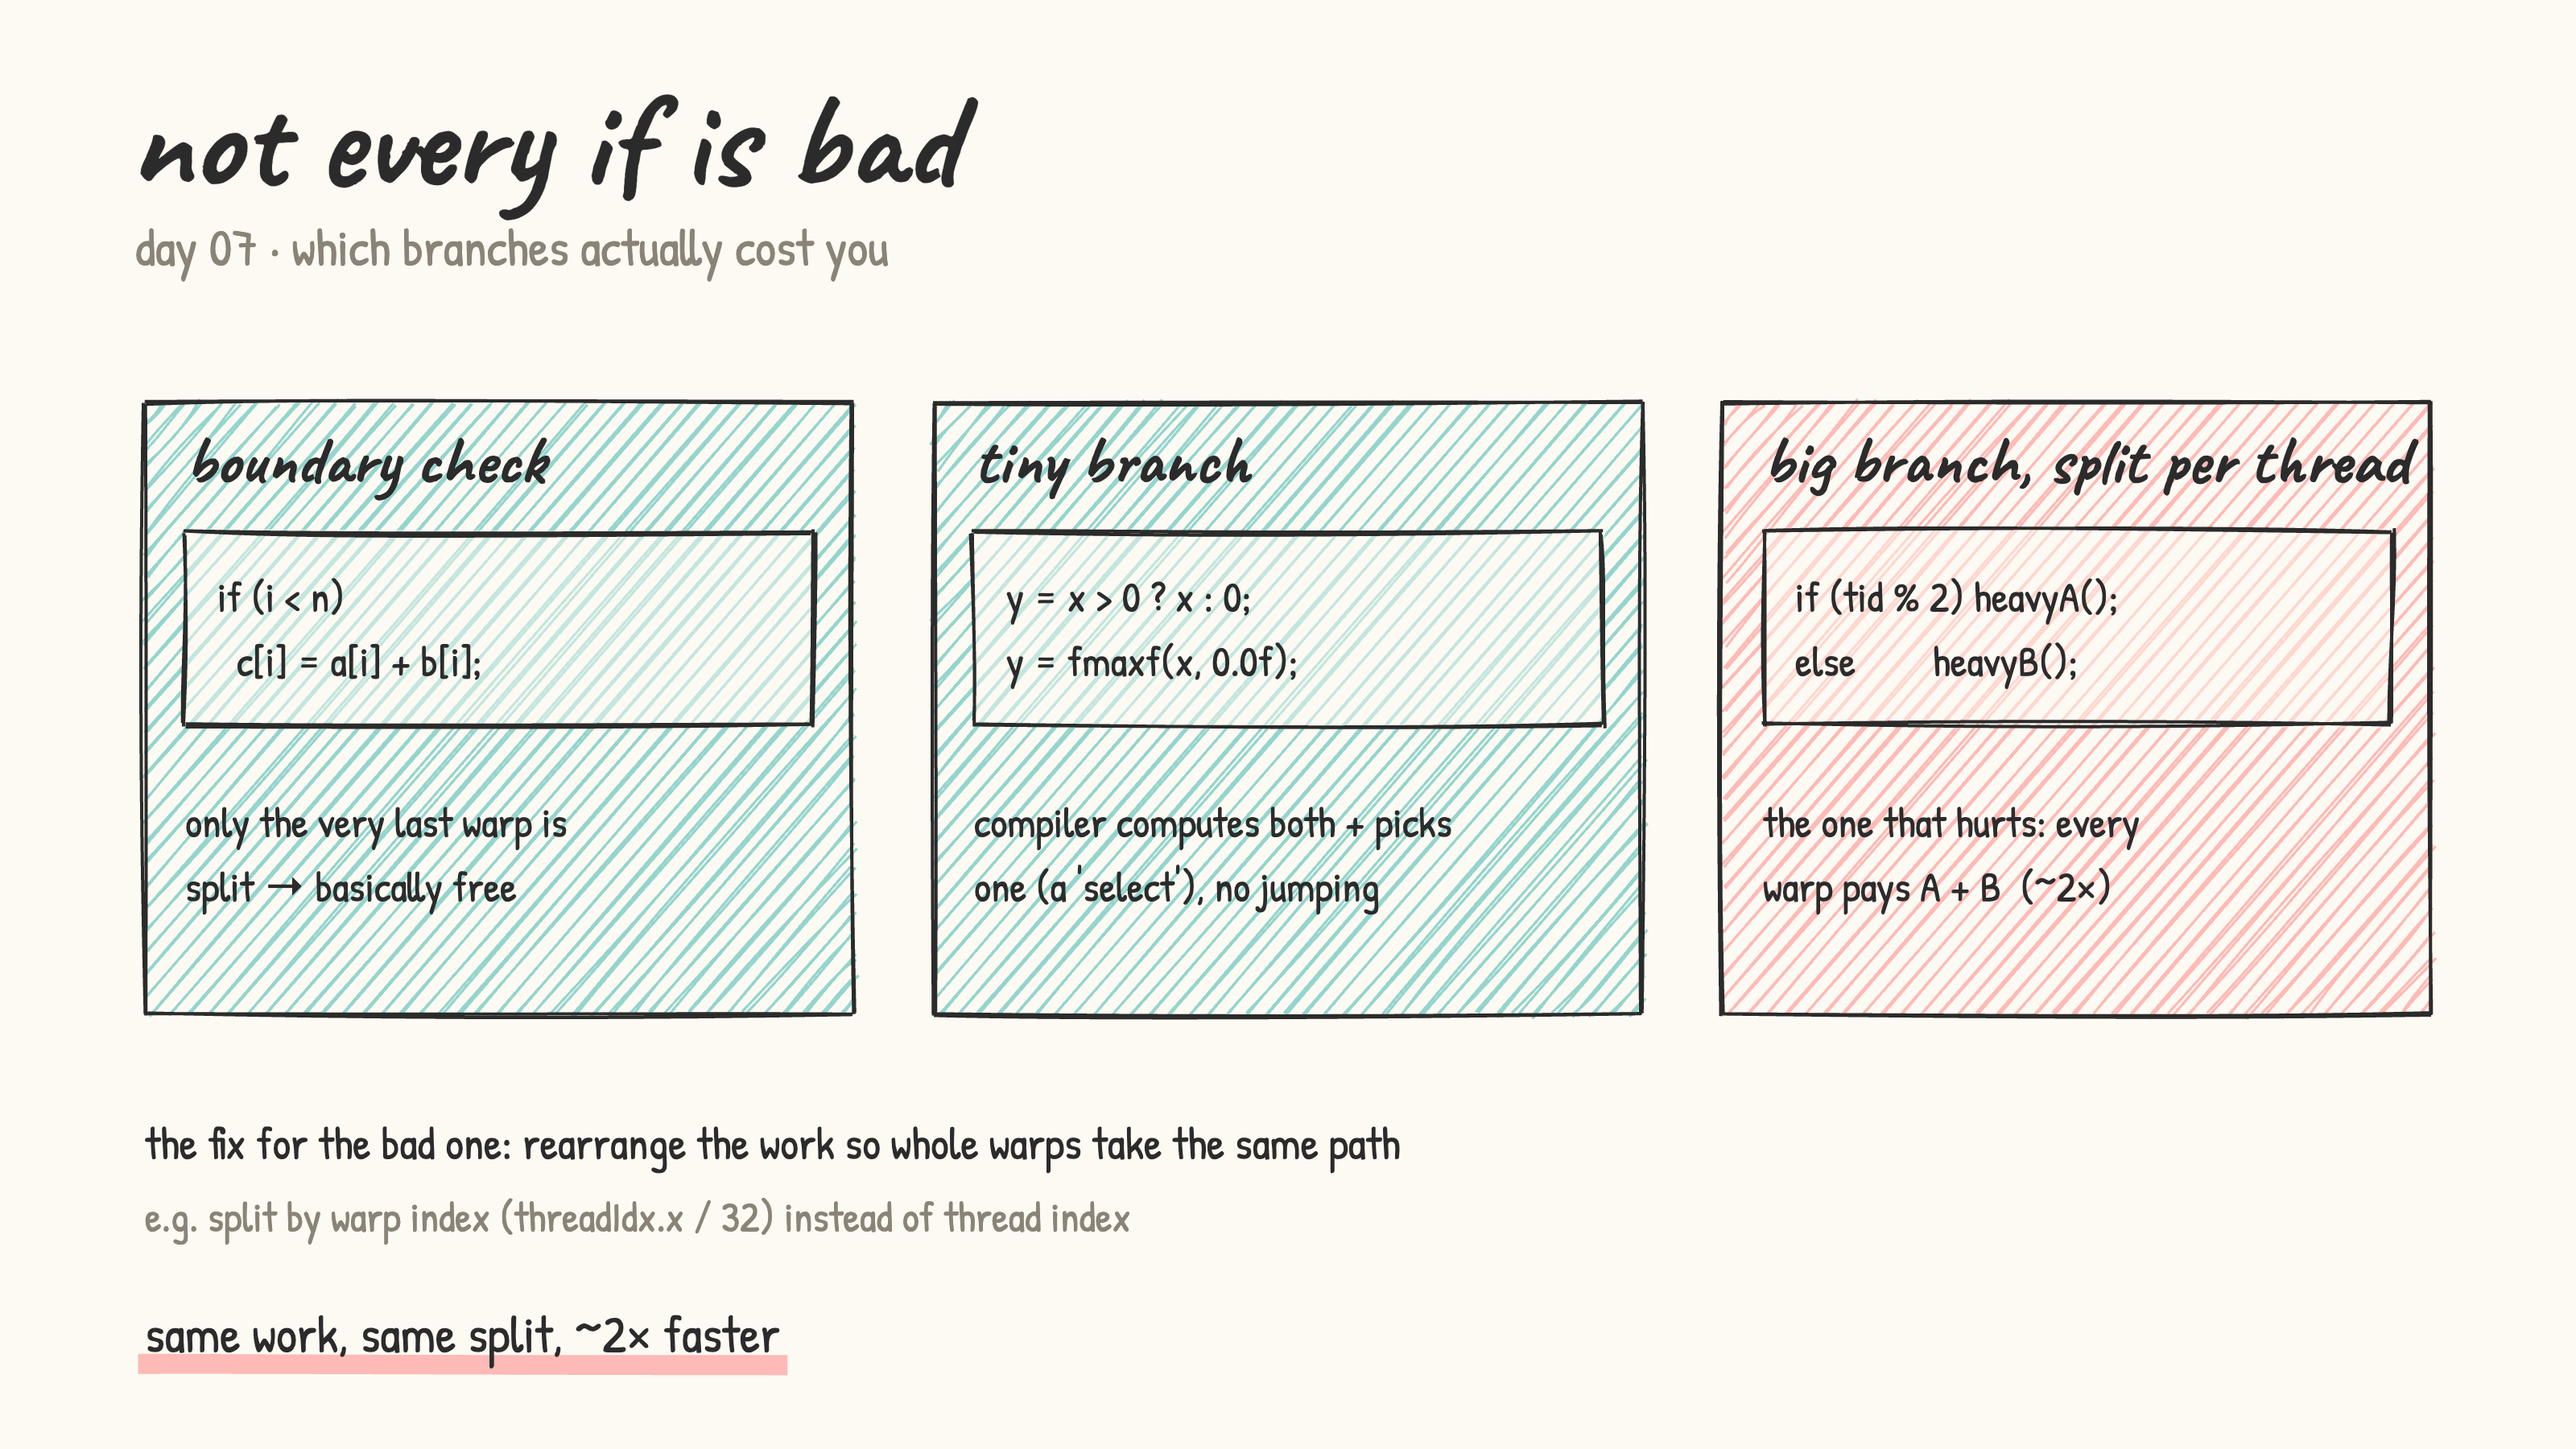
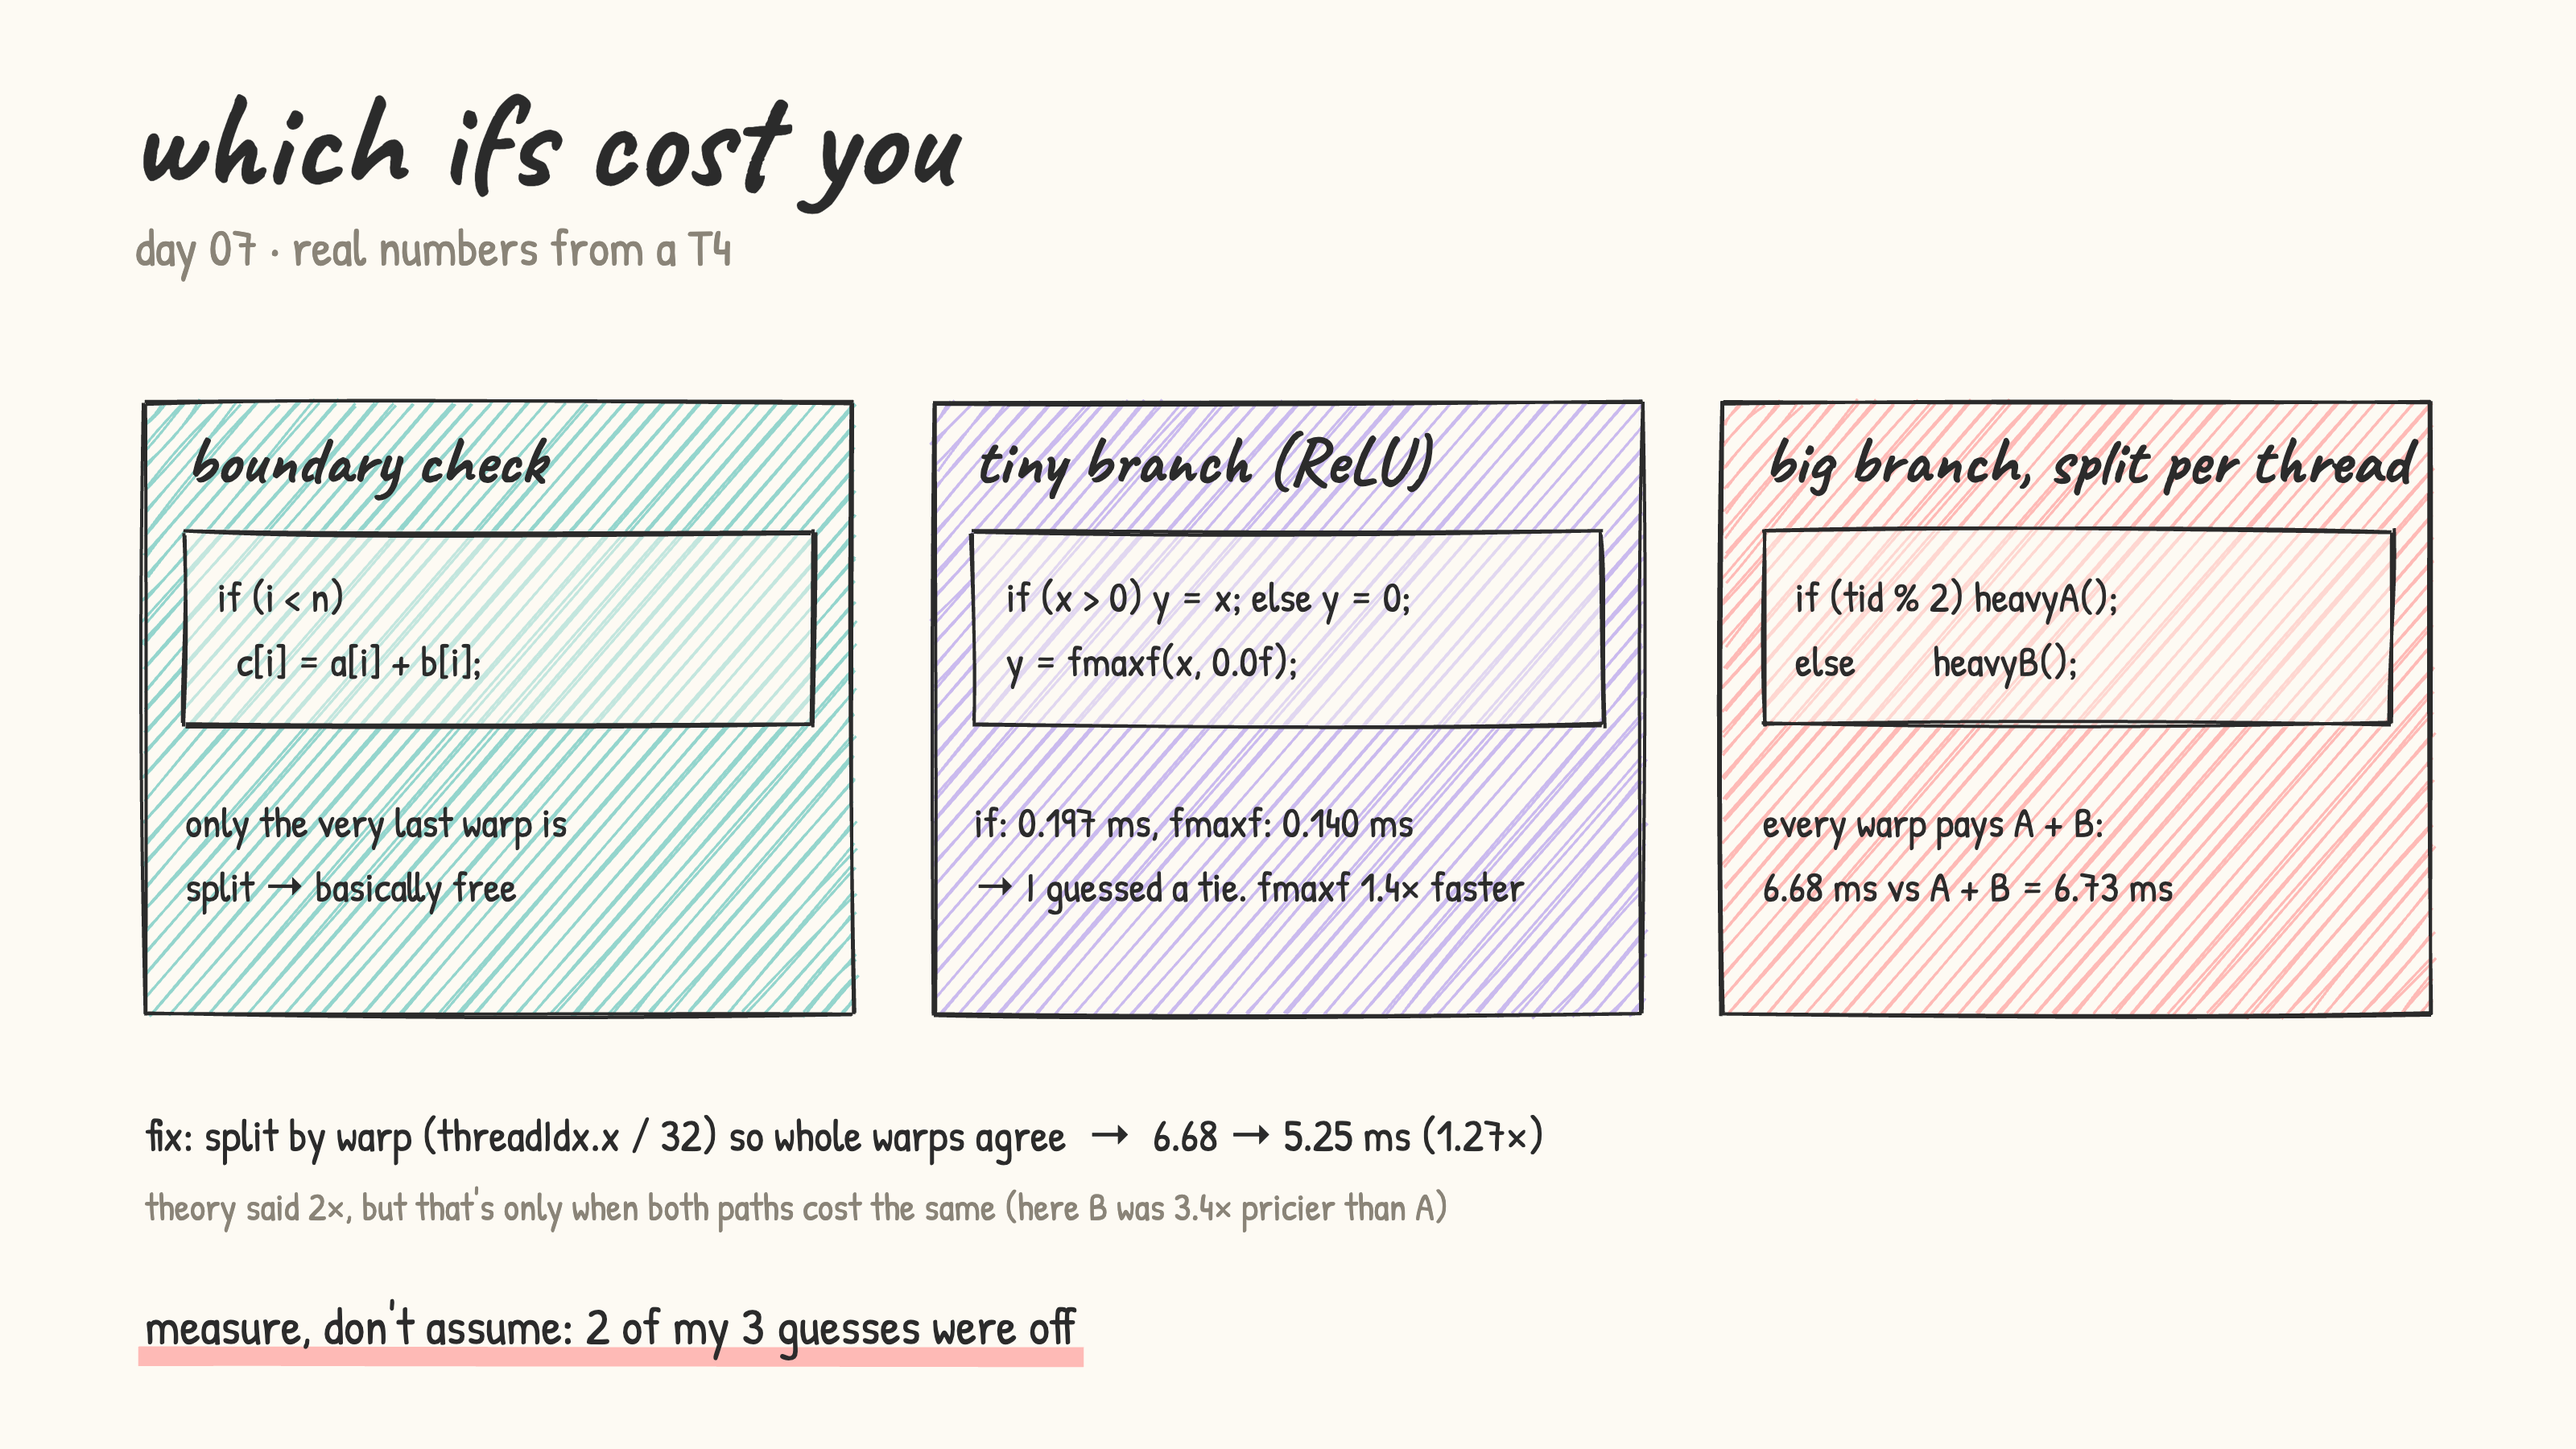
day 07: warp divergence, measured on T4

diff --git a/images/src/day07_not_every_if.html b/images/src/day07_not_every_if.html
@@ -11,15 +11,15 @@
 <script src="sketch.js"></script>
 <script>
 fontsReady.then(() => {
-  title("not every if is bad", "day 07 · which branches actually cost you");
+  title("which ifs cost you", "day 07 · real numbers from a T4");
 
   const cards = [
     { x: 90, fill: COLORS.teal, head: "boundary check", code: ["if (i < n)", "  c[i] = a[i] + b[i];"],
       note: ["only the very last warp is", "split → basically free"] },
-    { x: 580, fill: COLORS.teal, head: "tiny branch", code: ["y = x > 0 ? x : 0;", "y = fmaxf(x, 0.0f);"],
-      note: ["compiler computes both + picks", "one (a 'select'), no jumping"] },
+    { x: 580, fill: COLORS.purple, head: "tiny branch (ReLU)", code: ["if (x > 0) y = x; else y = 0;", "y = fmaxf(x, 0.0f);"],
+      note: ["if: 0.197 ms, fmaxf: 0.140 ms", "→ I guessed a tie. fmaxf 1.4× faster"] },
     { x: 1070, fill: COLORS.coral, head: "big branch, split per thread", code: ["if (tid % 2) heavyA();", "else        heavyB();"],
-      note: ["the one that hurts: every", "warp pays A + B  (~2×)"] },
+      note: ["every warp pays A + B:", "6.68 ms vs A + B = 6.73 ms"] },
   ];
   for (const c of cards) {
     box(c.x, 250, 440, 380, { fill: c.fill });
@@ -31,9 +31,9 @@ fontsReady.then(() => {
     text(c.x + 25, 560, c.note[1], { size: 26 });
   }
 
-  text(90, 720, "the fix for the bad one: rearrange the work so whole warps take the same path", { size: 28 });
-  text(90, 765, "e.g. split by warp index (threadIdx.x / 32) instead of thread index", { size: 26, color: COLORS.muted });
-  underline(text(90, 840, "same work, same split, ~2× faster", { size: 32 }), COLORS.coral);
+  text(90, 715, "fix: split by warp (threadIdx.x / 32) so whole warps agree  →  6.68 → 5.25 ms (1.27×)", { size: 28 });
+  text(90, 758, "theory said 2×, but that's only when both paths cost the same (here B was 3.4× pricier than A)", { size: 24, color: COLORS.muted });
+  underline(text(90, 835, "measure, don't assume: 2 of my 3 guesses were off", { size: 32 }), COLORS.coral);
 });
 </script>
 </body>

diff --git a/images/src/day07_divergence.html b/images/src/day07_divergence.html
@@ -31,6 +31,7 @@ fontsReady.then(() => {
   text(nx, 315, "one warp has to run BOTH paths,", { size: 28 });
   text(nx, 353, "one after the other. half the lanes", { size: 28 });
   text(nx, 391, "sit idle (–) each time  →  time = A + B", { size: 28 });
+  text(nx, 432, "measured on a T4: 6.68 ms vs A + B = 6.73 ms ✓", { size: 24, color: COLORS.muted });
 
   // ---- split per warp ----
   text(120, 500, "if ((threadIdx.x / 32) % 2 == 0) A();  else B();", { size: 28 });
@@ -38,7 +39,8 @@ fontsReady.then(() => {
   laneRow(600, "warp 1", () => ({ fill: COLORS.coral, label: "B" }));
   text(nx, 560, "every lane in a warp agrees, so", { size: 28 });
   text(nx, 598, "each warp runs only its own path", { size: 28 });
-  text(nx, 636, "→  time = A (or B), no waste", { size: 28 });
+  text(nx, 636, "→  no idle lanes, no wasted steps", { size: 28 });
+  text(nx, 677, "measured: 5.25 ms (1.27× faster, same work)", { size: 24, color: COLORS.muted });
 
   text(x0, 715, "(drawing 8 lanes per warp to keep it small, real warps have 32)", { size: 22, color: COLORS.muted });
   underline(text(120, 800, "divergence only costs you when threads in the SAME warp disagree", { size: 32 }), COLORS.coral);

diff --git a/day07/README.md b/day07/README.md
@@ -6,11 +6,24 @@
 
   ![divergence](../images/day07_divergence.png)
 
-- not every `if` is bad:
-  - `if (i < n)`: only the last warp is split, basically free
-  - tiny branches (ReLU): the compiler computes both sides and picks one (a "select"), no jumping
-  - big branches split per thread: these are the ones that hurt
+- results on a real T4 (LeetGPU, after warming the GPU up, median of 7 interleaved rounds):
 
-  ![not every if is bad](../images/day07_not_every_if.png)
+  | kernel | time | theory said |
+  |---|---|---|
+  | all A | 1.52 ms | |
+  | all B | 5.20 ms | |
+  | branch per thread (diverged) | 6.68 ms | A + B = 6.73 ✅ |
+  | branch per warp | 5.25 ms | (A+B)/2 = 3.36 ❌ |
+  | ReLU with `if` | 0.197 ms | same as fmaxf ❌ |
+  | ReLU with `fmaxf` | 0.140 ms | |
 
-- [warp_divergence.cu](warp_divergence.cu): LeetGPU format (paste into the Vector Addition challenge, press Run). Times no branch vs branch-per-warp vs branch-per-thread, plus ReLU with `if` vs `fmaxf`
+  - a diverged warp really pays A + B
+  - splitting per warp instead of per thread: 6.68 → 5.25 ms (1.27×). Theory says 2×, but only when both paths cost the same; here B was 3.4× pricier than A. Per warp landed at ≈ B, likely because every block holds both kinds of warps and a block is only done when its slowest warp finishes
+  - the tiny ReLU `if` was *not* free: `fmaxf` was 1.4× faster
+  - `if (i < n)` only splits the last warp, so it's basically free
+
+  ![which ifs cost you](../images/day07_not_every_if.png)
+
+- benchmarking lesson: the first run said "all A" took 3.96 ms, and the same kernel later took 1.52 ms. A cold GPU starts at a low clock. Fix: warm up for ~0.5 s, interleave the kernels in rounds, report the median + spread
+
+- [warp_divergence.cu](warp_divergence.cu): LeetGPU format (paste into the Vector Addition challenge, press Run)
